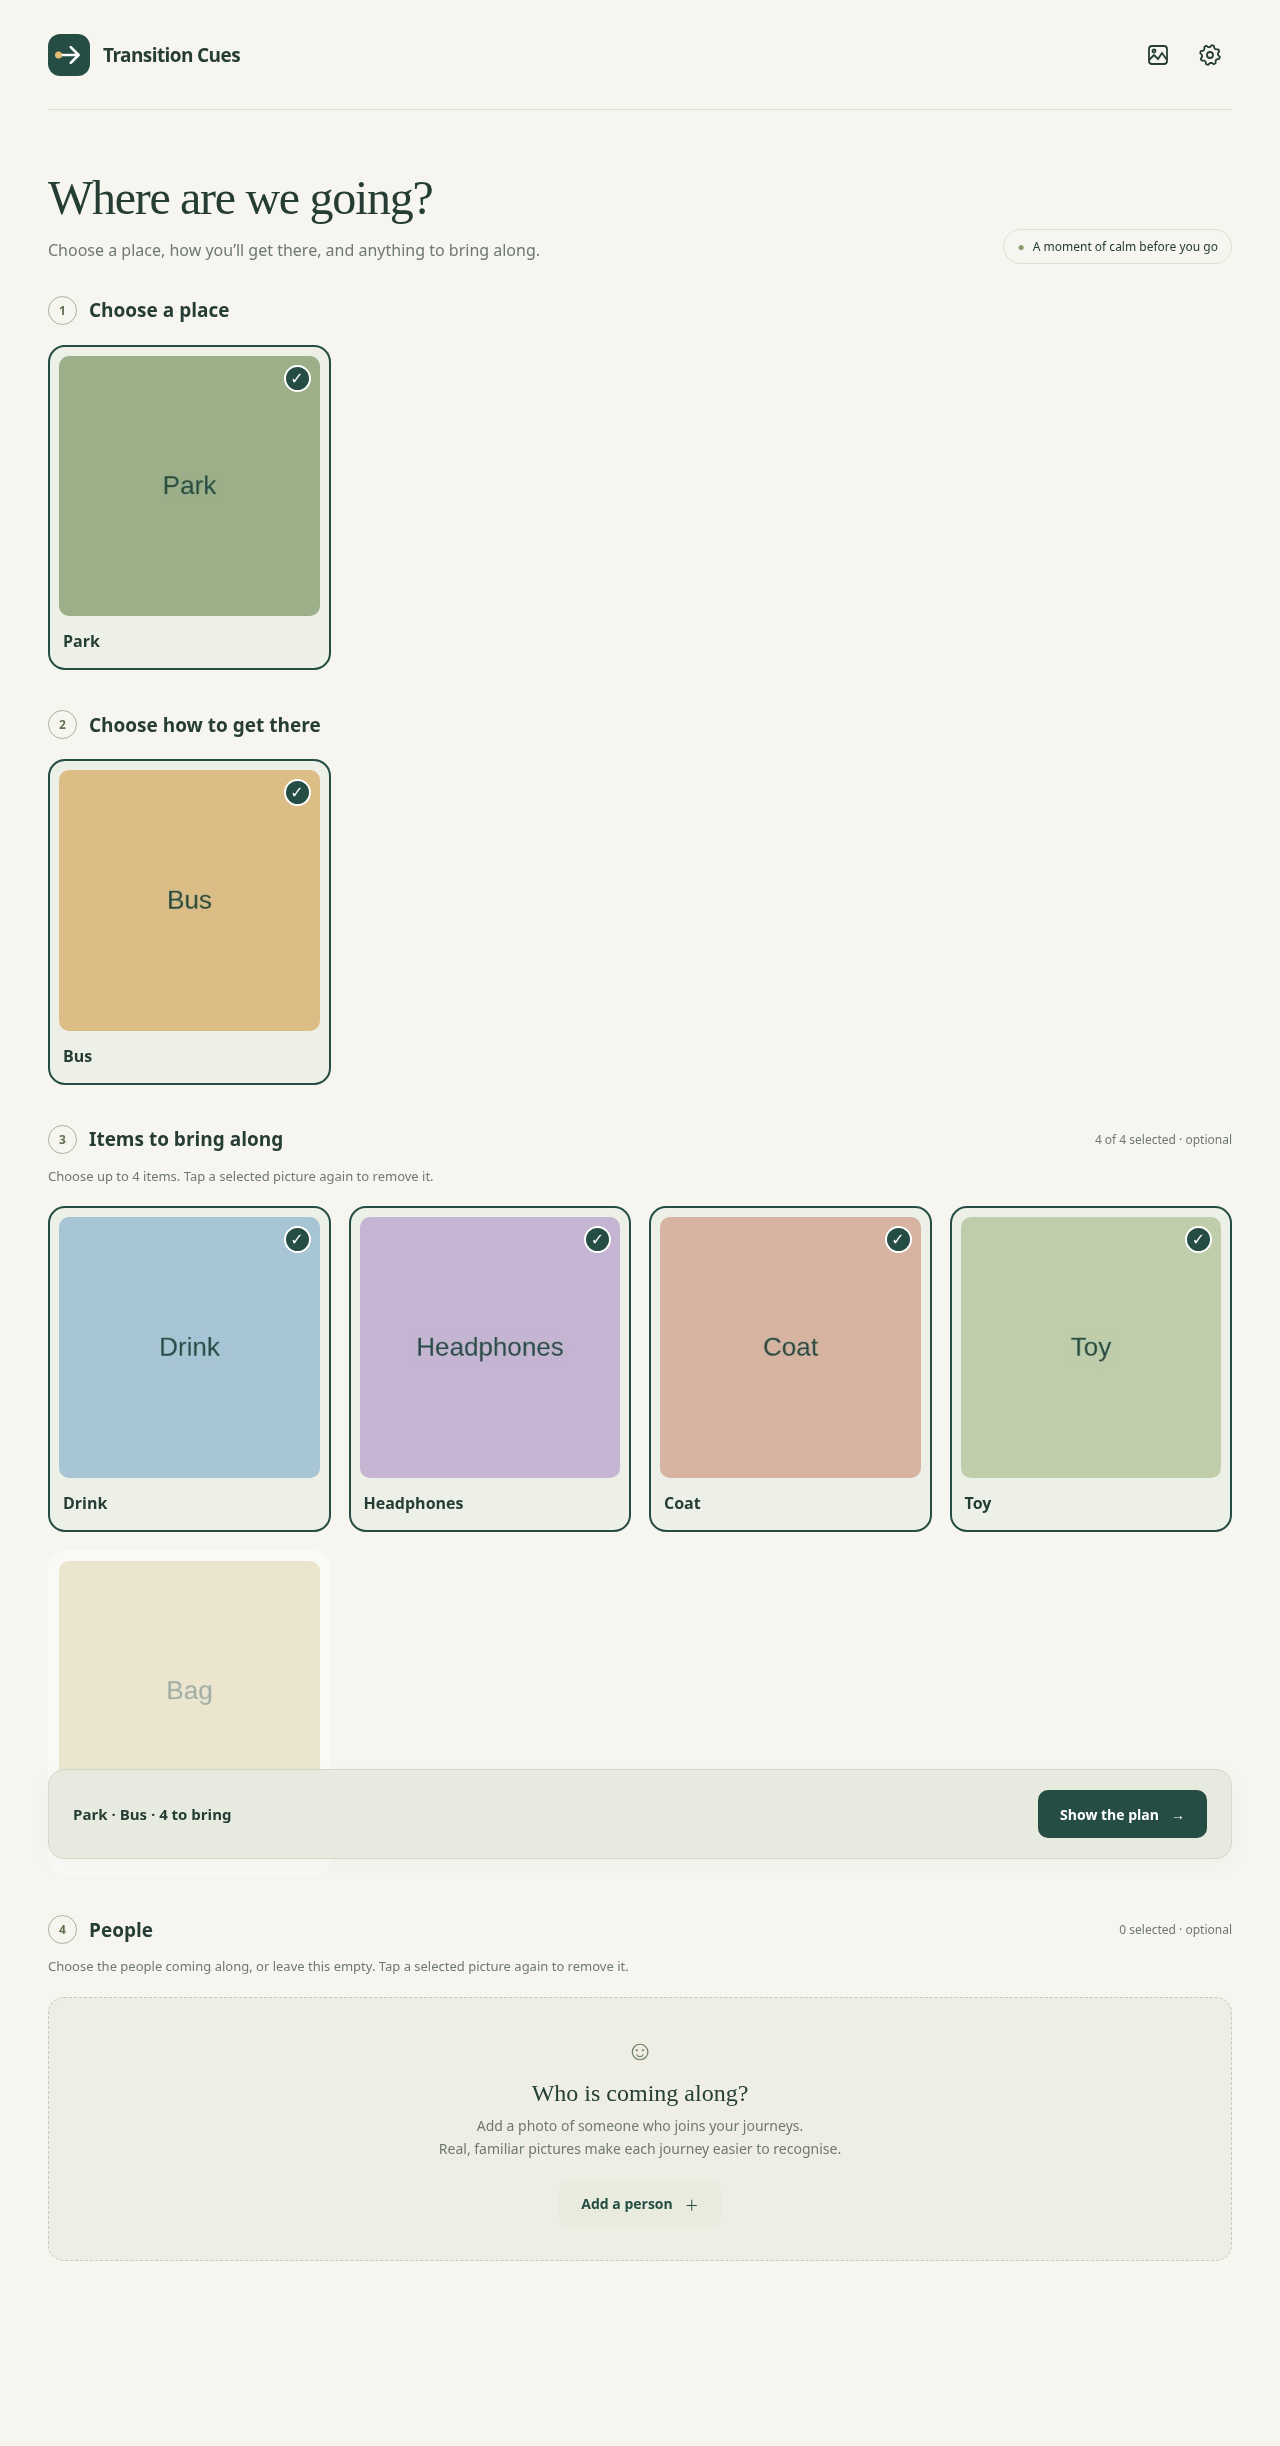
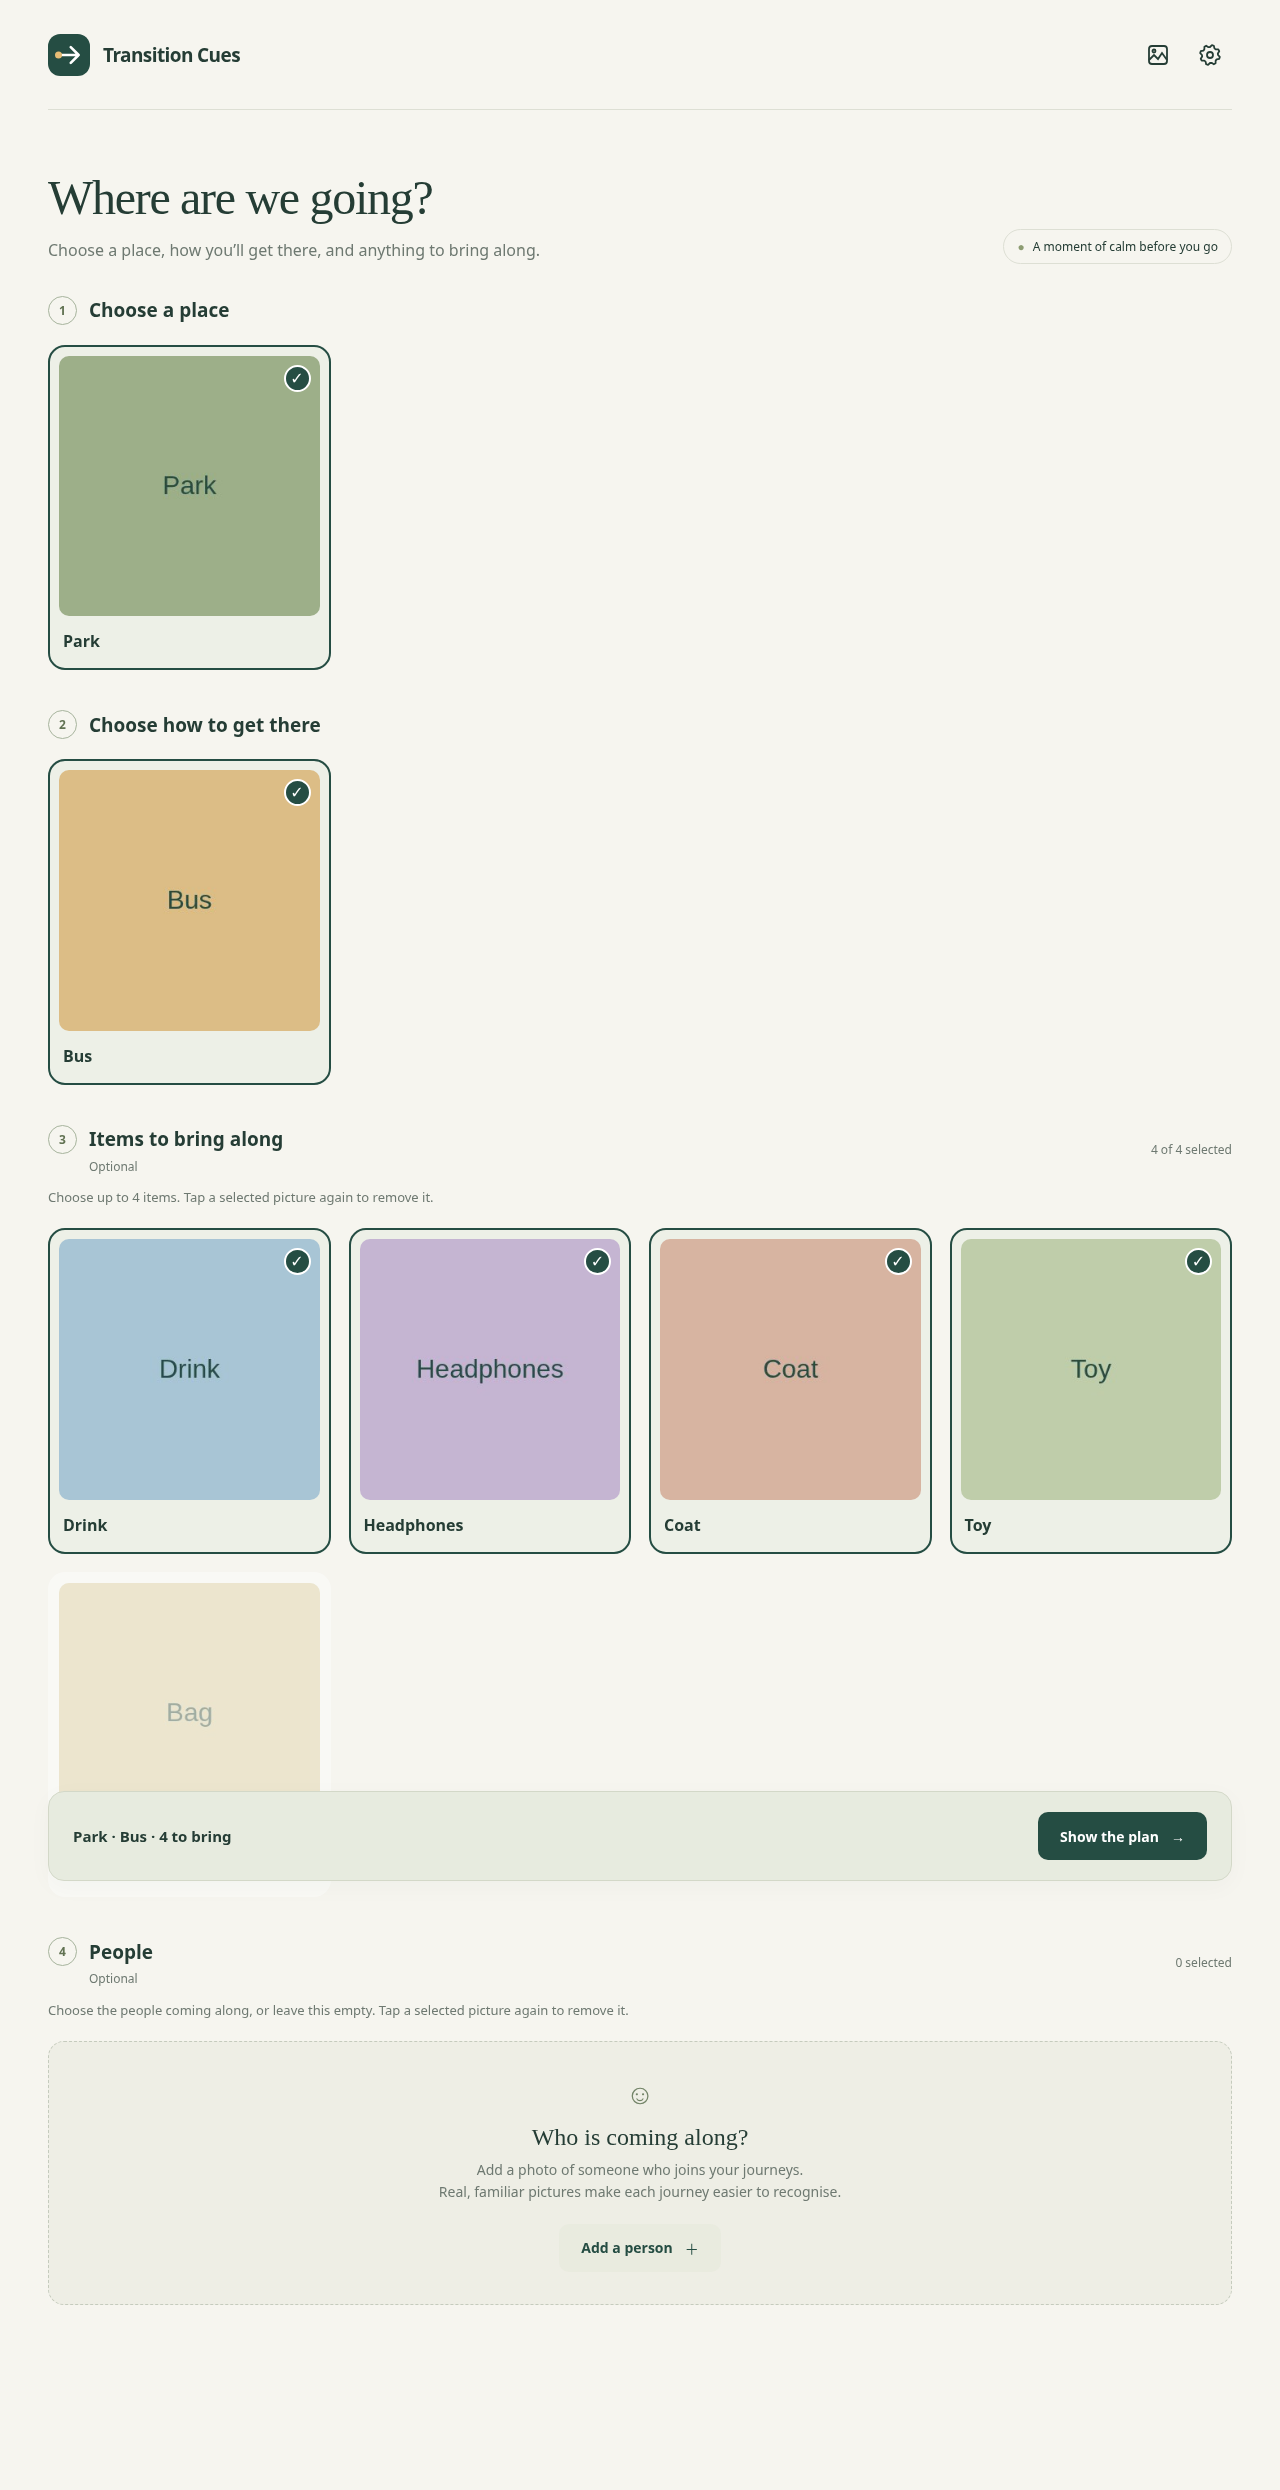
Simplify upload headings and reposition optional labels in v1.0.10

diff --git a/transition_cues/transition-cues-web/app.js b/transition_cues/transition-cues-web/app.js
@@ -40,7 +40,7 @@ function renderChoose() {
   frame(intro('Where are we going?', 'Choose a place, how you’ll get there, and anything to bring along.', '<span class="pill">A moment of calm before you go</span>') +
     ['places','transport','items','people'].map((kind,i)=>{
       const multi = kind==='items' || kind==='people';
-      return `<section class="step" aria-labelledby="${kind}Heading"><div class="step-heading"><h2 id="${kind}Heading"><span class="step-number">${i+1}</span>${['Choose a place','Choose how to get there','Items to bring along','People'][i]}</h2>${multi?`<small id="${kind==='items'?'itemCount':'peopleCount'}" role="status">${kind==='items' ? `${selected.items.length} of ${MAX_BRING_ITEMS} selected · optional` : `${selected.people.length} selected · optional`}</small>`:''}</div>${multi?`<p class="step-help">${kind==='items'?'Choose up to 4 items.':'Choose the people coming along, or leave this empty.'} Tap a selected picture again to remove it.</p>`:''}${state[kind].length ? `<div class="grid">${state[kind].map(x=>{
+      return `<section class="step" aria-labelledby="${kind}Heading"><div class="step-heading"><div class="step-title"><h2 id="${kind}Heading"><span class="step-number">${i+1}</span>${['Choose a place','Choose how to get there','Items to bring along','People'][i]}</h2>${multi?'<p class="step-optional">Optional</p>':''}</div>${multi?`<small id="${kind==='items'?'itemCount':'peopleCount'}" role="status">${kind==='items' ? `${selected.items.length} of ${MAX_BRING_ITEMS} selected` : `${selected.people.length} selected`}</small>`:''}</div>${multi?`<p class="step-help">${kind==='items'?'Choose up to 4 items.':'Choose the people coming along, or leave this empty.'} Tap a selected picture again to remove it.</p>`:''}${state[kind].length ? `<div class="grid">${state[kind].map(x=>{
         const active = multi ? selected[kind].some(item=>item.id===x.id) : selected[kind]?.id===x.id;
         const atLimit = kind==='items' && !active && selected.items.length>=MAX_BRING_ITEMS;
         return `<button class="picture ${kind==='people'?'person-picture':''} ${active?'selected':''}" data-kind="${kind}" data-id="${x.id}" aria-pressed="${active}" ${atLimit?'disabled':''}><img src="${esc(x.image)}" alt=""><span class="check" aria-hidden="true">✓</span><span class="name">${esc(x.name)}</span></button>`;
@@ -110,8 +110,8 @@ const uploadCategories = [
   ['people','People','<circle cx="12" cy="7" r="4"/><path d="M4 22v-3a8 8 0 0 1 16 0v3Z"/>']
 ];
 function renderManage() {
-  frame(intro('Little pictures. Familiar faces.','Add your own photos, so every journey starts with something familiar.')+
-    `<div class="management"><section class="panel"><h2>Add a picture</h2><p>A clear photo and a short, familiar name work best.</p><form id="uploadForm"><fieldset class="kind-picker"><legend>What is it?</legend><div class="kind-options">${uploadCategories.map(([kind,label,icon])=>`<label class="kind-choice"><input type="radio" name="kind" value="${kind}" ${kind===category?'checked':''}><svg viewBox="0 0 24 24" fill="none" stroke="currentColor" stroke-width="1.7" stroke-linecap="round" stroke-linejoin="round" aria-hidden="true">${icon}</svg><span>${label}</span></label>`).join('')}</div></fieldset><div><label for="name">Name</label><input id="name" maxlength="60" placeholder="e.g. Park" required></div><div><label for="photo">Photo</label><input id="photo" type="file" accept="image/jpeg,image/png,image/webp" required><p class="help">JPEG, PNG or WebP. Photos fill a square automatically. Use Crop photo to zoom out, adjust framing and colour any gaps. People display as circles.</p><img id="photoPreview" class="preview-image" alt="Selected photo preview" hidden><button id="cropUpload" class="secondary" type="button" hidden>Crop photo</button></div><p id="uploadError" class="error" role="alert"></p><button class="primary" type="submit" id="uploadButton">Add to library <span aria-hidden="true">＋</span></button></form></section><section aria-label="Existing pictures"><div class="tabs" aria-label="Picture categories">${[['places','Places'],['transport','Transport'],['items','Items'],['people','People']].map(([k,t])=>`<button data-tab="${k}" aria-pressed="${category===k}">${t} · ${state[k].length}</button>`).join('')}</div><div id="library"></div></section></div>`, 'manage');
+  frame(intro('Add a picture','A clear photo and a short, familiar name work best.')+
+    `<div class="management"><section class="panel" aria-label="Upload a picture"><form id="uploadForm"><fieldset class="kind-picker"><legend>What is it?</legend><div class="kind-options">${uploadCategories.map(([kind,label,icon])=>`<label class="kind-choice"><input type="radio" name="kind" value="${kind}" ${kind===category?'checked':''}><svg viewBox="0 0 24 24" fill="none" stroke="currentColor" stroke-width="1.7" stroke-linecap="round" stroke-linejoin="round" aria-hidden="true">${icon}</svg><span>${label}</span></label>`).join('')}</div></fieldset><div><label for="name">Name</label><input id="name" maxlength="60" placeholder="e.g. Park" required></div><div><label for="photo">Photo</label><input id="photo" type="file" accept="image/jpeg,image/png,image/webp" required><p class="help">JPEG, PNG or WebP. Photos fill a square automatically. Use Crop photo to zoom out, adjust framing and colour any gaps. People display as circles.</p><img id="photoPreview" class="preview-image" alt="Selected photo preview" hidden><button id="cropUpload" class="secondary" type="button" hidden>Crop photo</button></div><p id="uploadError" class="error" role="alert"></p><button class="primary" type="submit" id="uploadButton">Add to library <span aria-hidden="true">＋</span></button></form></section><section aria-label="Existing pictures"><div class="tabs" aria-label="Picture categories">${[['places','Places'],['transport','Transport'],['items','Items'],['people','People']].map(([k,t])=>`<button data-tab="${k}" aria-pressed="${category===k}">${t} · ${state[k].length}</button>`).join('')}</div><div id="library"></div></section></div>`, 'manage');
   const uploadKind=()=>$('#uploadForm input[name="kind"]:checked').value;
   app.querySelectorAll('[data-tab]').forEach(b=>b.onclick=()=>{category=b.dataset.tab;renderManage();});
   renderLibrary();

diff --git a/transition_cues/transition-cues-web/style.css b/transition_cues/transition-cues-web/style.css
@@ -40,3 +40,5 @@
 
 /* Labelled category icons keep uploading easy on a phone. */
 .kind-picker{border:0;padding:0;margin:0;min-width:0}.kind-picker legend{font-size:13px;font-weight:600;margin:12px 0 7px}.kind-options{display:grid;grid-template-columns:repeat(2,minmax(0,1fr));gap:8px}.kind-choice{position:relative;display:flex;flex-direction:column;align-items:center;justify-content:center;gap:7px;min-height:82px;margin:0;padding:12px 4px;border:2px solid #dce1d2;border-radius:12px;background:#f6f7f0;color:var(--green);cursor:pointer;text-align:center}.kind-choice svg{width:28px;height:28px;flex:none}.kind-choice input{position:absolute;inset:0;width:100%;height:100%;min-height:0;opacity:0;margin:0;padding:0;cursor:pointer}.kind-choice:has(input:checked){border-color:var(--green);background:#e7eddf}.kind-choice:has(input:focus-visible){outline:3px solid #b17b28;outline-offset:3px}.subpage-header{justify-content:space-between}
+
+.step-title{min-width:0}.step-optional{font-size:12px;line-height:1.4;color:var(--muted);margin:5px 0 0 41px}

diff --git a/tests/container_smoke.py b/tests/container_smoke.py
@@ -81,5 +81,5 @@ print('PASS: replacement container preserves library and images in /data')
 
 if __name__ == '__main__':
     parser = argparse.ArgumentParser()
-    parser.add_argument('--image', default='transition-cues-ha-check:1.0.9')
+    parser.add_argument('--image', default='transition-cues-ha-check:1.0.10')
     run(parser.parse_args().image)

diff --git a/transition_cues/CHANGELOG.md b/transition_cues/CHANGELOG.md
@@ -1,5 +1,10 @@
 # Changelog
 
+## 1.0.10
+
+- Use Add a picture and its short-photo guidance as the library page heading, removing duplicate text from the upload box.
+- Move Optional beneath the Items to bring along and People headings, keeping selection counts separate.
+
 ## 1.0.9
 
 - Add Apple home-screen metadata, a web app manifest, and high-resolution regular and maskable icons using the Transition Cues logo.
